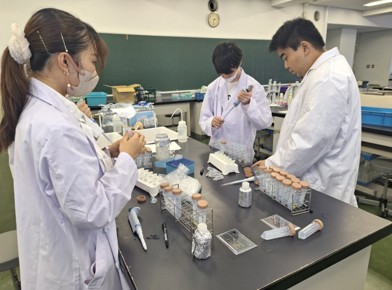
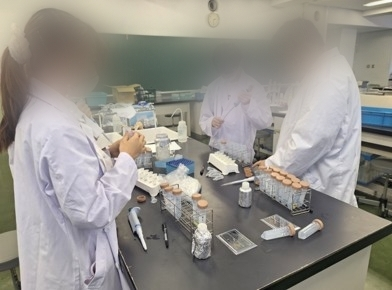
upd 26_welcome

Changed region(s): [[0.0, 0.0, 0.949, 0.4966]]

diff --git a/2026/26_welcome.html b/2026/26_welcome.html
@@ -156,7 +156,7 @@
 						</div>
 						<div class="col">
 							<div style="height: 90px"></div>
-							<img src="../2024/24_campas-fes_fig01.jpg">
+							<img src="../2025/25_campas-fes_fig01.png">
 						</div>
 					</div>
 				</section>
@@ -177,7 +177,7 @@
 					 	</div>
 						<div class="col">
 							<div style="height: 20px"></div>
-							<img src="../2025/25_campas-fes_fig01.png">
+							<img src="../2023/23_campas-fes_fig01.jpg">
 						</div>
 					</div>
 				</section>
